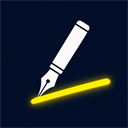
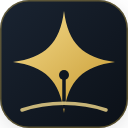
Adiciona páginas de suporte e atualiza ícone do site para a 1.6.1

diff --git a/suporte.html b/suporte.html
@@ -1,0 +1,95 @@
+<!DOCTYPE html>
+<html lang="pt-BR">
+<head>
+  <meta charset="UTF-8">
+  <meta name="viewport" content="width=device-width, initial-scale=1.0">
+  <title>Suporte — PenWeb</title>
+  <meta name="description" content="Ajuda do PenWeb: instalação, caneta, painel lateral, chave de IA, problemas comuns e contato.">
+  <link rel="canonical" href="https://thallyz.github.io/penweb/suporte.html">
+  <link rel="alternate" hreflang="pt-BR" href="https://thallyz.github.io/penweb/suporte.html">
+  <link rel="alternate" hreflang="en" href="https://thallyz.github.io/penweb/en/support.html">
+  <link rel="alternate" hreflang="x-default" href="https://thallyz.github.io/penweb/suporte.html">
+  <meta name="robots" content="index, follow">
+  <link rel="icon" type="image/png" href="img/icon-128.png?v=20261102-1">
+  <link rel="stylesheet" href="css/style.css?v=20261030-2">
+</head>
+<body>
+
+<header class="legal-top">
+  <div class="container legal-top-inner">
+    <a class="brand" href="index.html" aria-label="PenWeb — início">
+      <img src="img/icon-128.png" alt="">
+      <div><b>PenWeb</b><span>by DWLabs</span></div>
+    </a>
+    <div class="legal-top-actions">
+      <a href="index.html">← Voltar ao início</a>
+      <a class="lang" href="en/support.html" lang="en" hreflang="en" title="Read in English">EN</a>
+    </div>
+  </div>
+</header>
+
+<main class="legal-page">
+  <div class="container legal-wrap">
+    <article class="legal-card">
+      <span class="eyebrow">Ajuda</span>
+      <h1>Suporte</h1>
+      <p class="legal-meta">PenWeb 1.6.1 · <a href="privacidade.html">Política de Privacidade</a></p>
+
+      <h2>Primeiros passos</h2>
+      <ol>
+        <li>Instale o PenWeb na Chrome Web Store e fixe o ícone na barra do Chrome.</li>
+        <li>Abra qualquer página ou PDF. O botão flutuante do PenWeb aparece no lado direito; se ele não aparecer, recarregue a página depois de instalar ou atualizar a extensão.</li>
+        <li>Clique no botão flutuante ou no ícone da extensão para abrir o painel lateral.</li>
+        <li>Use a caneta e o marca-texto na página. Grifos, notas, desenhos, mapas e flashcards ficam salvos no seu navegador.</li>
+      </ol>
+
+      <h2>Configurar a IA (opcional)</h2>
+      <p>
+        Os recursos de IA são opcionais e usam a sua própria chave. No painel, abra
+        <strong>Configurações de IA</strong>, escolha o provedor (OpenRouter, Google
+        Gemini, Groq ou DeepSeek), clique em <strong>Obter chave grátis</strong>, cole a
+        chave e clique em <strong>Salvar e testar</strong>. A chave fica no armazenamento
+        local do navegador; o conteúdo do pedido vai direto ao provedor escolhido.
+      </p>
+      <p>
+        O Ollama é uma opção local: instale o Ollama no computador e selecione o
+        provedor correspondente. Não é necessário criar conta no PenWeb.
+      </p>
+
+      <h2>Problemas comuns</h2>
+      <ul>
+        <li><strong>O botão flutuante não aparece:</strong> recarregue a página depois de instalar ou atualizar a extensão. Em páginas internas do Chrome, da Web Store ou em algumas páginas protegidas, o navegador bloqueia a injeção por segurança.</li>
+        <li><strong>O painel não abre:</strong> confira se a extensão está ativa no ícone do Chrome e tente clicar no botão flutuante. Atualize o Chrome se a versão for antiga.</li>
+        <li><strong>A IA retorna erro de chave:</strong> confirme se a chave foi colada sem espaços, se o provedor selecionado é o mesmo da chave e se a conta do provedor tem acesso ao modelo escolhido.</li>
+        <li><strong>Erro 429 ou limite de uso:</strong> o plano gratuito do provedor atingiu o limite. Aguarde, troque de modelo ou use outra chave/provedor.</li>
+        <li><strong>Resumo/mapa não encontra texto:</strong> alguns PDFs e páginas carregam o conteúdo em um visualizador interno. Tente usar a fonte Página, selecionar o texto ou usar um recorte de região.</li>
+        <li><strong>Perdi uma nota:</strong> as notas são salvas no navegador. Não desinstale a extensão nem limpe os dados do Chrome antes de exportar o que precisa. O PenWeb não mantém cópia em nuvem.</li>
+      </ul>
+
+      <h2>Privacidade</h2>
+      <p>
+        O PenWeb não tem conta nem servidor que receba o seu conteúdo. O que fica local
+        e o que é enviado ao provedor de IA está detalhado na
+        <a href="privacidade.html">Política de Privacidade</a>.
+      </p>
+
+      <h2>Contato</h2>
+      <p>
+        Não encontrou a solução? Envie uma mensagem para
+        <a href="mailto:dwlabs.penweb@gmail.com">dwlabs.penweb@gmail.com</a> com a versão
+        do PenWeb, o navegador e uma descrição do problema. Se for um erro de IA, não
+        envie sua chave de API por e-mail.
+      </p>
+    </article>
+  </div>
+</main>
+
+<footer class="legal-footer">
+  <div class="container legal-footer-inner">
+    <span>© 2026 PenWeb · feito com dedicação no Brasil 🇧🇷</span>
+    <span><a href="index.html">Início</a> · <a href="privacidade.html">Privacidade</a> · <a href="en/support.html" hreflang="en" lang="en">English</a> · <a href="mailto:dwlabs.penweb@gmail.com">Contato</a></span>
+  </div>
+</footer>
+
+</body>
+</html>

diff --git a/en/support.html b/en/support.html
@@ -1,0 +1,95 @@
+<!DOCTYPE html>
+<html lang="en">
+<head>
+  <meta charset="UTF-8">
+  <meta name="viewport" content="width=device-width, initial-scale=1.0">
+  <title>Support — PenWeb</title>
+  <meta name="description" content="PenWeb help: installation, pen, side panel, AI key, common issues and contact.">
+  <link rel="canonical" href="https://thallyz.github.io/penweb/en/support.html">
+  <link rel="alternate" hreflang="pt-BR" href="https://thallyz.github.io/penweb/suporte.html">
+  <link rel="alternate" hreflang="en" href="https://thallyz.github.io/penweb/en/support.html">
+  <link rel="alternate" hreflang="x-default" href="https://thallyz.github.io/penweb/suporte.html">
+  <meta name="robots" content="index, follow">
+  <link rel="icon" type="image/png" href="../img/icon-128.png?v=20261102-1">
+  <link rel="stylesheet" href="../css/style.css?v=20261030-2">
+</head>
+<body>
+
+<header class="legal-top">
+  <div class="container legal-top-inner">
+    <a class="brand" href="index.html" aria-label="PenWeb — home">
+      <img src="../img/icon-128.png" alt="">
+      <div><b>PenWeb</b><span>by DWLabs</span></div>
+    </a>
+    <div class="legal-top-actions">
+      <a href="index.html">← Back to home</a>
+      <a class="lang" href="../suporte.html" lang="pt-BR" hreflang="pt-BR" title="Ler em português">PT</a>
+    </div>
+  </div>
+</header>
+
+<main class="legal-page">
+  <div class="container legal-wrap">
+    <article class="legal-card">
+      <span class="eyebrow">Help</span>
+      <h1>Support</h1>
+      <p class="legal-meta">PenWeb 1.6.1 · <a href="privacy.html">Privacy Policy</a></p>
+
+      <h2>Getting started</h2>
+      <ol>
+        <li>Install PenWeb from the Chrome Web Store and pin its icon to the Chrome toolbar.</li>
+        <li>Open any page or PDF. The PenWeb floating button appears on the right side; if it does not show up after installing or updating, reload the page.</li>
+        <li>Click the floating button or the extension icon to open the side panel.</li>
+        <li>Use the pen and highlighter on the page. Highlights, notes, drawings, maps and flashcards are saved in your browser.</li>
+      </ol>
+
+      <h2>Set up AI (optional)</h2>
+      <p>
+        AI features are optional and use your own API key. In the panel, open
+        <strong>AI Settings</strong>, choose the provider (OpenRouter, Google Gemini,
+        Groq or DeepSeek), click <strong>Get a free key</strong>, paste the key and click
+        <strong>Save &amp; test</strong>. The key stays in your browser's local storage;
+        request content goes directly to the chosen provider.
+      </p>
+      <p>
+        Ollama is a local option: install Ollama on your computer and select the
+        corresponding provider. No PenWeb account is required.
+      </p>
+
+      <h2>Common issues</h2>
+      <ul>
+        <li><strong>The floating button is missing:</strong> reload the page after installing or updating the extension. Chrome blocks injection on internal Chrome pages, the Web Store and some protected pages for security.</li>
+        <li><strong>The panel does not open:</strong> check that the extension is enabled from the Chrome icon and try the floating button. Update Chrome if it is an old version.</li>
+        <li><strong>The AI reports a key error:</strong> make sure the key was pasted without spaces, the selected provider matches the key, and the provider account has access to the chosen model.</li>
+        <li><strong>429 or usage limit:</strong> the provider's free plan reached its limit. Wait, switch models or use another key/provider.</li>
+        <li><strong>Summary/map finds no text:</strong> some PDFs and pages render content in an internal viewer. Try the Page source, select the text or use a region crop.</li>
+        <li><strong>I lost a note:</strong> notes are saved in your browser. Do not uninstall the extension or clear Chrome data before exporting what you need. PenWeb does not keep a cloud copy.</li>
+      </ul>
+
+      <h2>Privacy</h2>
+      <p>
+        PenWeb has no account or server that receives your content. What stays local and
+        what is sent to the AI provider is detailed in the
+        <a href="privacy.html">Privacy Policy</a>.
+      </p>
+
+      <h2>Contact</h2>
+      <p>
+        Still stuck? Email
+        <a href="mailto:dwlabs.penweb@gmail.com">dwlabs.penweb@gmail.com</a> with your
+        PenWeb version, browser and a description of the issue. For AI errors, never
+        send your API key by email.
+      </p>
+    </article>
+  </div>
+</main>
+
+<footer class="legal-footer">
+  <div class="container legal-footer-inner">
+    <span>© 2026 PenWeb · made with dedication in Brazil 🇧🇷</span>
+    <span><a href="index.html">Home</a> · <a href="privacy.html">Privacy</a> · <a href="../suporte.html" hreflang="pt-BR" lang="pt-BR">Português</a> · <a href="mailto:dwlabs.penweb@gmail.com">Contact</a></span>
+  </div>
+</footer>
+
+</body>
+</html>

diff --git a/index.html b/index.html
@@ -302,7 +302,7 @@
         <p>Caneta, grifos e IA para transformar leitura em revisão ativa — no seu navegador.</p>
       </div>
       <div class="footer-col"><h4>Produto</h4><a href="#recursos">Recursos</a><a href="#como-funciona">Como funciona</a><a href="#privacidade">Privacidade</a><a href="#acesso">Acesso 1.5.5</a></div>
-      <div class="footer-col"><h4>Suporte</h4><a href="#faq">Perguntas frequentes</a><a href="privacidade.html">Política de privacidade</a><a href="mailto:dwlabs.penweb@gmail.com">Contato</a><a href="https://github.com/Thallyz" target="_blank" rel="noopener">GitHub</a></div>
+      <div class="footer-col"><h4>Suporte</h4><a href="suporte.html">Suporte</a><a href="#faq">Perguntas frequentes</a><a href="privacidade.html">Política de privacidade</a><a href="mailto:dwlabs.penweb@gmail.com">Contato</a><a href="https://github.com/Thallyz" target="_blank" rel="noopener">GitHub</a></div>
       <div class="footer-col"><h4>Idioma</h4><a href="en/" lang="en" hreflang="en">English</a><span class="footer-muted">Español · em breve</span><a href="https://chromewebstore.google.com/detail/penweb/mmbhcihaimenkcagobpnkopbhdcgpopd" target="_blank" rel="noopener">Chrome Web Store ↗</a></div>
     </div>
     <div class="footer-bottom"><span>© 2026 PenWeb · feito com dedicação no Brasil 🇧🇷</span><span><a href="privacidade.html">Privacidade</a> · <a href="mailto:dwlabs.penweb@gmail.com">dwlabs.penweb@gmail.com</a></span></div>

diff --git a/en/index.html b/en/index.html
@@ -301,7 +301,7 @@
         <p>Pen, highlights and AI to turn reading into active recall — in your browser.</p>
       </div>
       <div class="footer-col"><h4>Product</h4><a href="#features">Features</a><a href="#how-it-works">How it works</a><a href="#privacy">Privacy</a><a href="#access">Access 1.5.5</a></div>
-      <div class="footer-col"><h4>Support</h4><a href="#faq">FAQ</a><a href="privacy.html">Privacy policy</a><a href="mailto:dwlabs.penweb@gmail.com">Contact</a><a href="https://github.com/Thallyz" target="_blank" rel="noopener">GitHub</a></div>
+      <div class="footer-col"><h4>Support</h4><a href="support.html">Support</a><a href="#faq">FAQ</a><a href="privacy.html">Privacy policy</a><a href="mailto:dwlabs.penweb@gmail.com">Contact</a><a href="https://github.com/Thallyz" target="_blank" rel="noopener">GitHub</a></div>
       <div class="footer-col"><h4>Language</h4><a href="../" lang="pt-BR" hreflang="pt-BR">Português</a><span class="footer-muted">Español · coming soon</span><a href="https://chromewebstore.google.com/detail/penweb/mmbhcihaimenkcagobpnkopbhdcgpopd" target="_blank" rel="noopener">Chrome Web Store ↗</a></div>
     </div>
     <div class="footer-bottom"><span>© 2026 PenWeb · made with dedication in Brazil 🇧🇷</span><span><a href="privacy.html">Privacy</a> · <a href="mailto:dwlabs.penweb@gmail.com">dwlabs.penweb@gmail.com</a></span></div>
